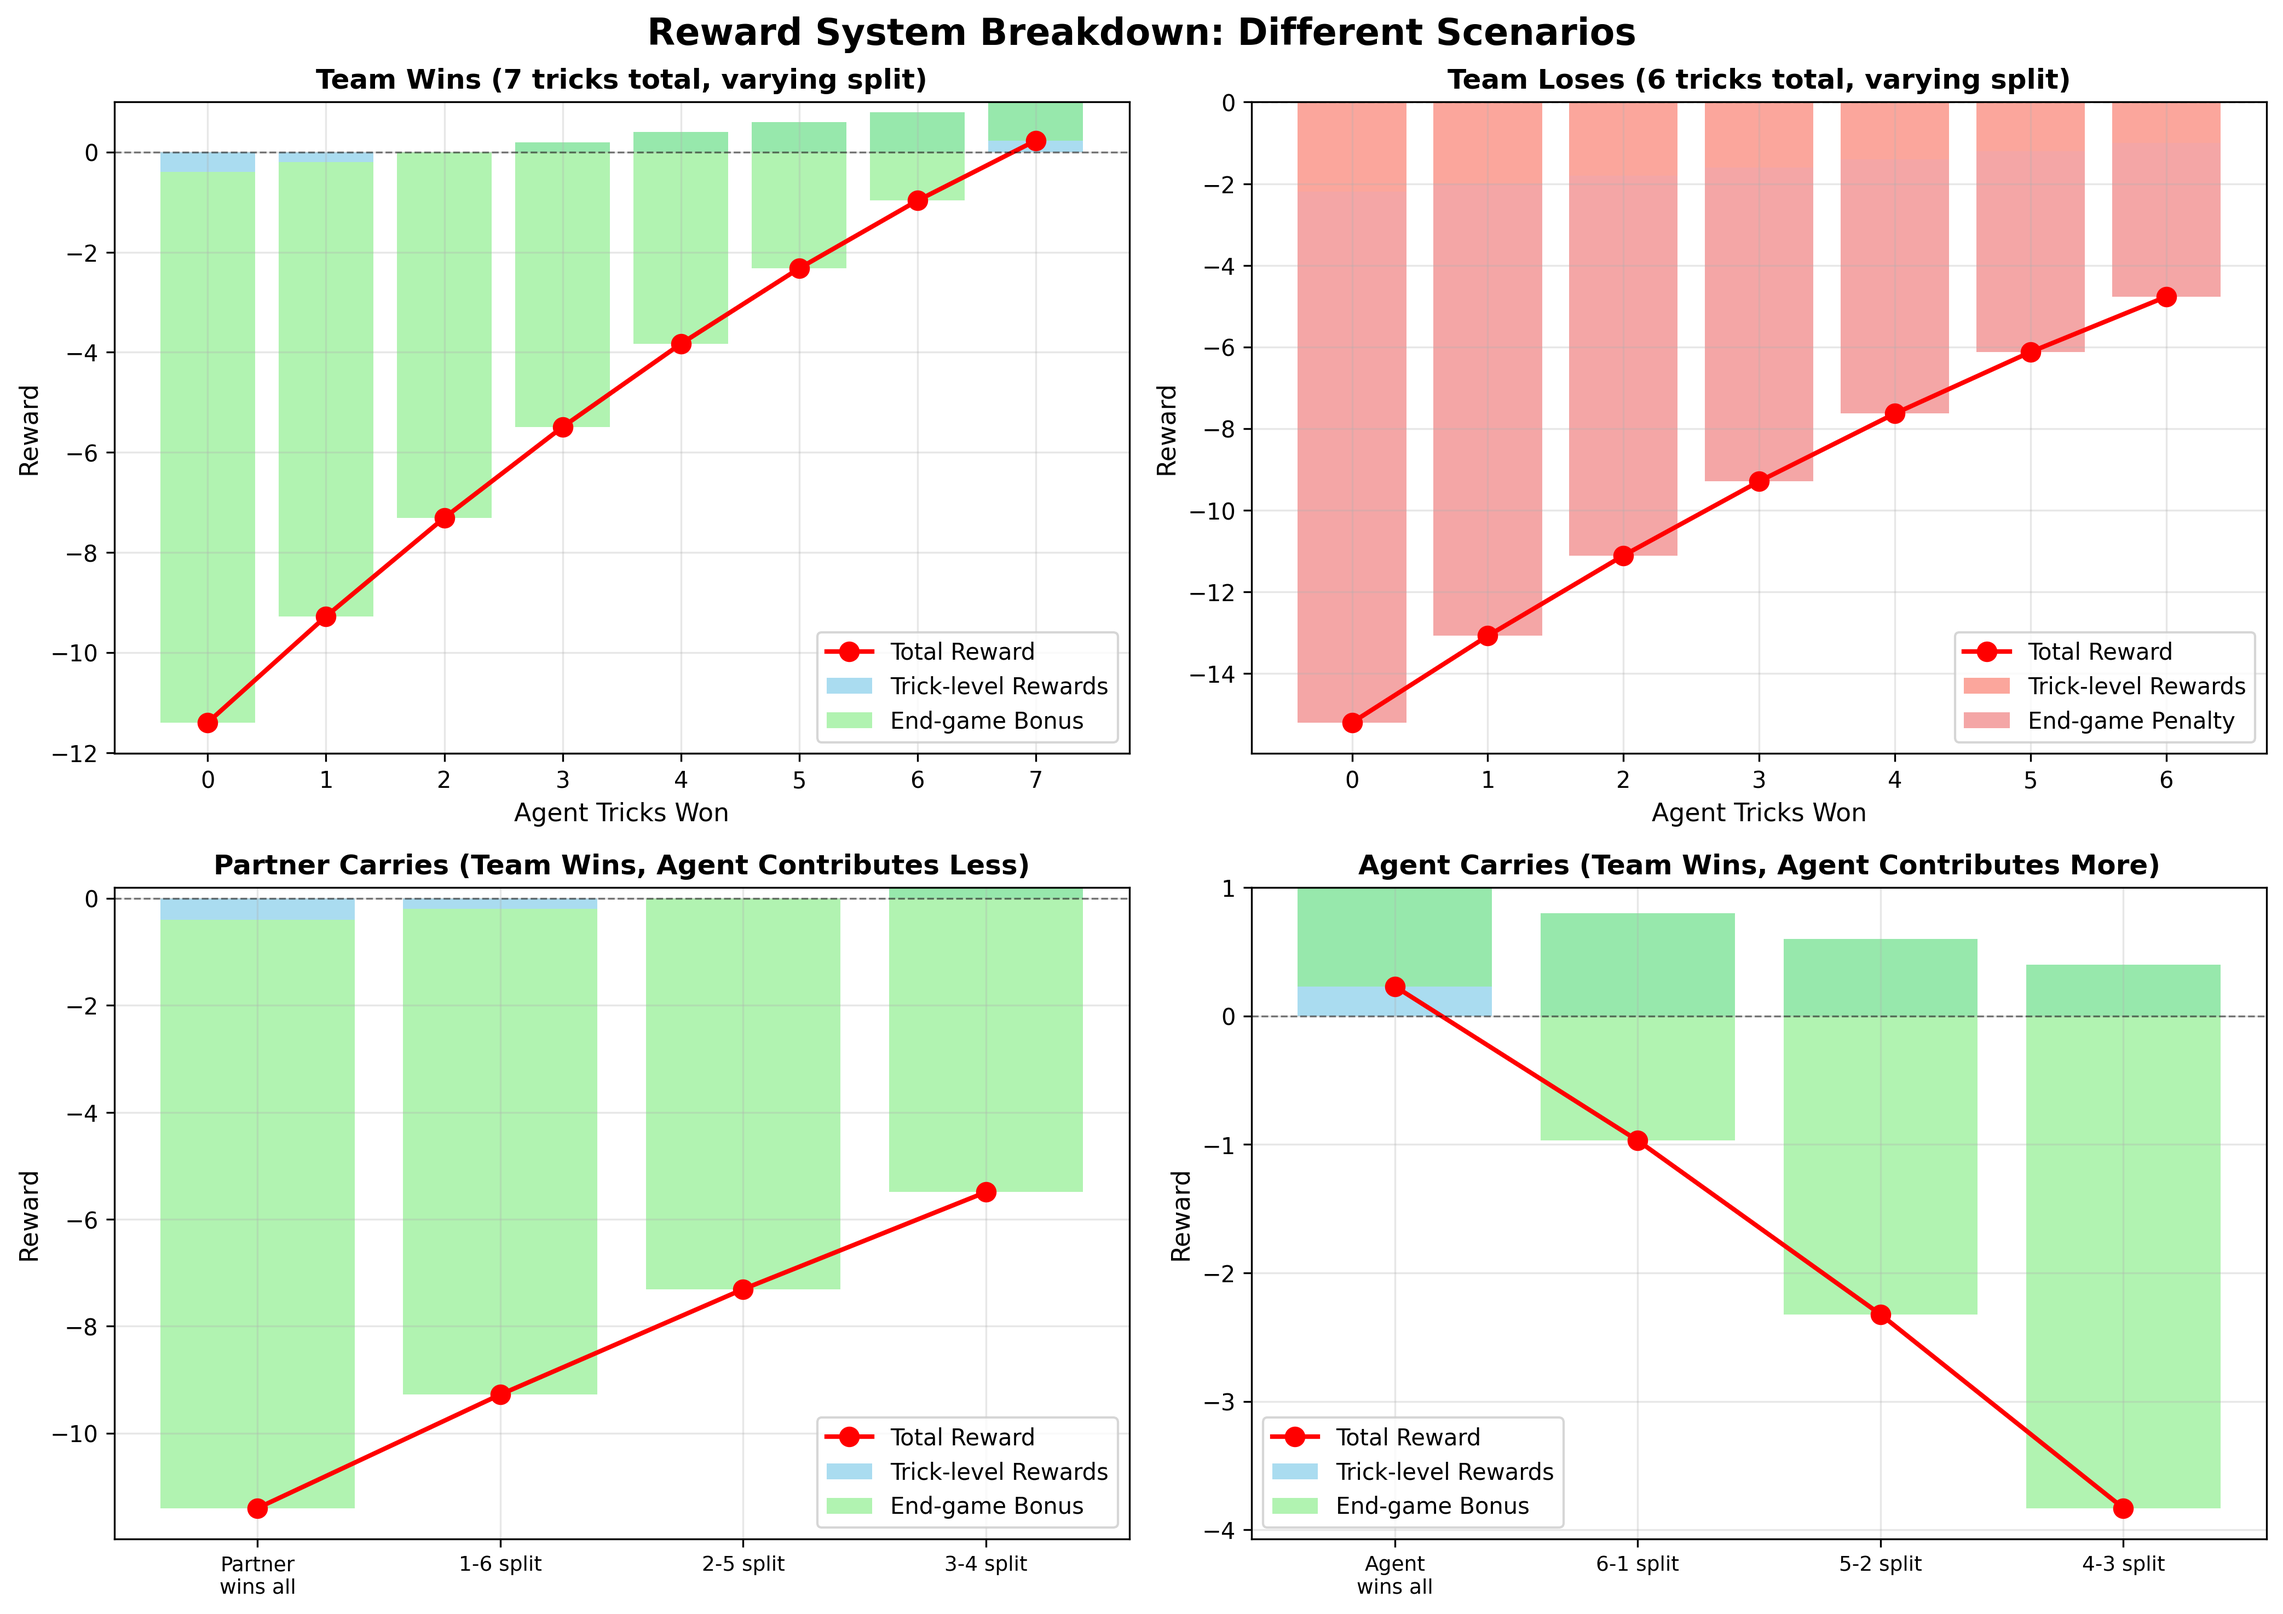
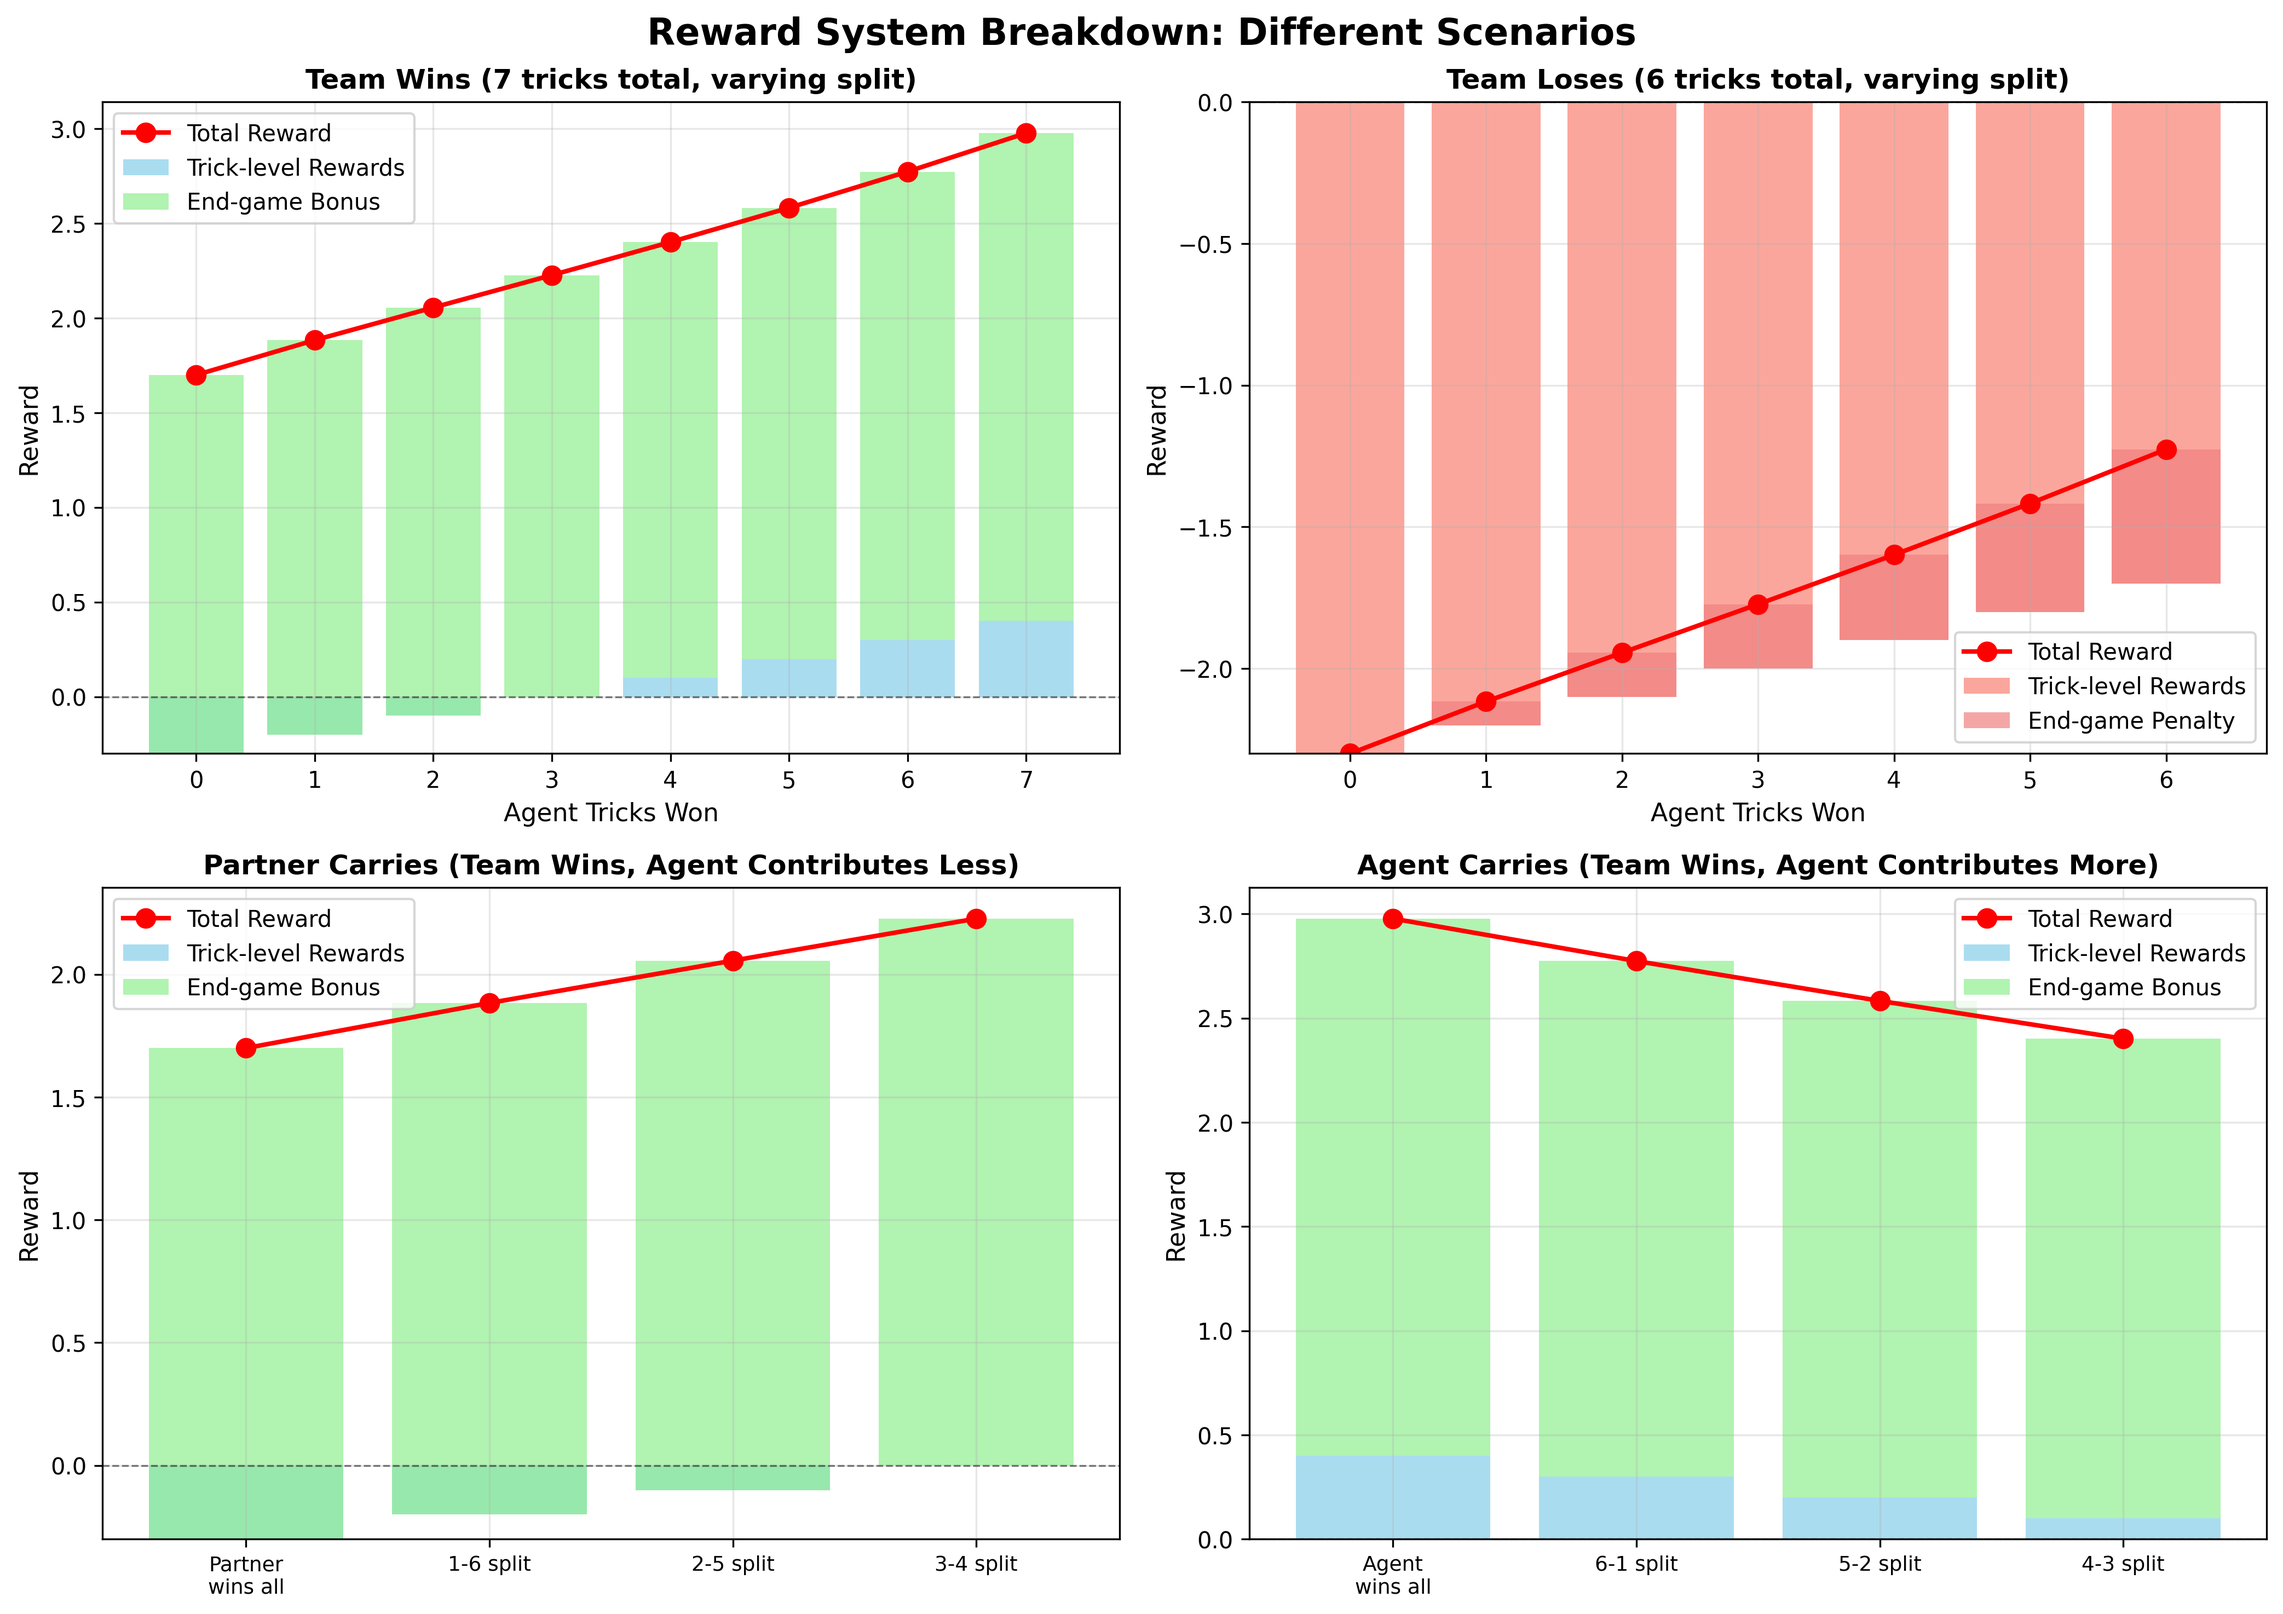
new reward system

diff --git a/generate_reward_visualizations.py b/generate_reward_visualizations.py
@@ -16,13 +16,17 @@ os.makedirs('docs/reward_visualizations', exist_ok=True)
 CARDS_PER_PLAYER = 13
 MAX_TRICKS = CARDS_PER_PLAYER
 TEAM_WIN_THRESHOLD = 7  # Team needs 7+ tricks to win
+AGENT_TRICK_LEVEL_REWARDS = 1.0
+PARTNER_TRICK_LEVEL_REWARDS = 0.9
+OPPONENT_TRICK_LEVEL_PENALTY = -1.1
+
 
 def calculate_end_game_reward(agent_tricks, partner_tricks, team_won):
     """
     Calculate end-game reward using the current formula:
     (tricks_won - max_tricks) × (1 - tricks_won / max_tricks) + team_bonus
     """
-    base_reward = (agent_tricks - MAX_TRICKS) * (1 - agent_tricks / MAX_TRICKS)
+    base_reward = ((13 + (agent_tricks - MAX_TRICKS)) / 10) ** (1 + (agent_tricks / MAX_TRICKS))
     team_bonus = 2.0 if team_won else 0.0
     return base_reward + team_bonus
 
@@ -31,14 +35,15 @@ def calculate_total_game_reward(agent_tricks, partner_tricks):
     # Trick-level rewards (assuming rest are split between partner and opponents)
     opponent_tricks = MAX_TRICKS - (agent_tricks + partner_tricks)
     
-    trick_level_reward = agent_tricks * 1.0  # reward for each trick agent wins
-    trick_level_reward += partner_tricks * 0.9  # reward for each trick partner wins
-    trick_level_reward += opponent_tricks * (-1.0)  # punishment for each trick opponents win
+    trick_level_reward = agent_tricks * AGENT_TRICK_LEVEL_REWARDS  # reward for each trick agent wins
+    trick_level_reward += partner_tricks * PARTNER_TRICK_LEVEL_REWARDS  # reward for each trick partner wins
+    trick_level_reward += opponent_tricks * OPPONENT_TRICK_LEVEL_PENALTY  # punishment for each trick opponents win
     
     # End-game reward
     team_total = agent_tricks + partner_tricks
     team_won = team_total >= TEAM_WIN_THRESHOLD
     end_game_reward = calculate_end_game_reward(agent_tricks, partner_tricks, team_won)
+    
     
     return trick_level_reward, end_game_reward, trick_level_reward + end_game_reward
 
@@ -186,9 +191,12 @@ for i, partner_tricks in enumerate(partner_tricks_grid):
             reward_matrix[i, j] = total
         else:
             reward_matrix[i, j] = np.nan  # Invalid combinations
+        
+
+
 
 # Create heatmap
-im = ax.imshow(reward_matrix, cmap='RdYlGn', aspect='auto', origin='lower', vmin=-15, vmax=10)
+im = ax.imshow(reward_matrix, cmap='RdYlGn', aspect='auto', origin='lower', vmin=-15, vmax=16.9)
 
 # Add colorbar
 cbar = plt.colorbar(im, ax=ax)
@@ -365,9 +373,9 @@ ax.grid(True, alpha=0.3, axis='x')
 # Add legend
 from matplotlib.patches import Patch
 legend_elements = [
-    Patch(facecolor='green', alpha=0.6, label='Agent Wins (+1.0)'),
-    Patch(facecolor='lightgreen', alpha=0.6, label='Partner Wins (+0.8)'),
-    Patch(facecolor='red', alpha=0.6, label='Opponent Wins (-1.0)'),
+    Patch(facecolor='green', alpha=0.6, label=f'Agent Wins ({AGENT_TRICK_LEVEL_REWARDS})'),
+    Patch(facecolor='lightgreen', alpha=0.6, label=f'Partner Wins ({PARTNER_TRICK_LEVEL_REWARDS})'),
+    Patch(facecolor='red', alpha=0.6, label=f'Opponent Wins ({OPPONENT_TRICK_LEVEL_PENALTY})'),
 ]
 ax.legend(handles=legend_elements, loc='upper left')
 ax2.legend(loc='upper right')
